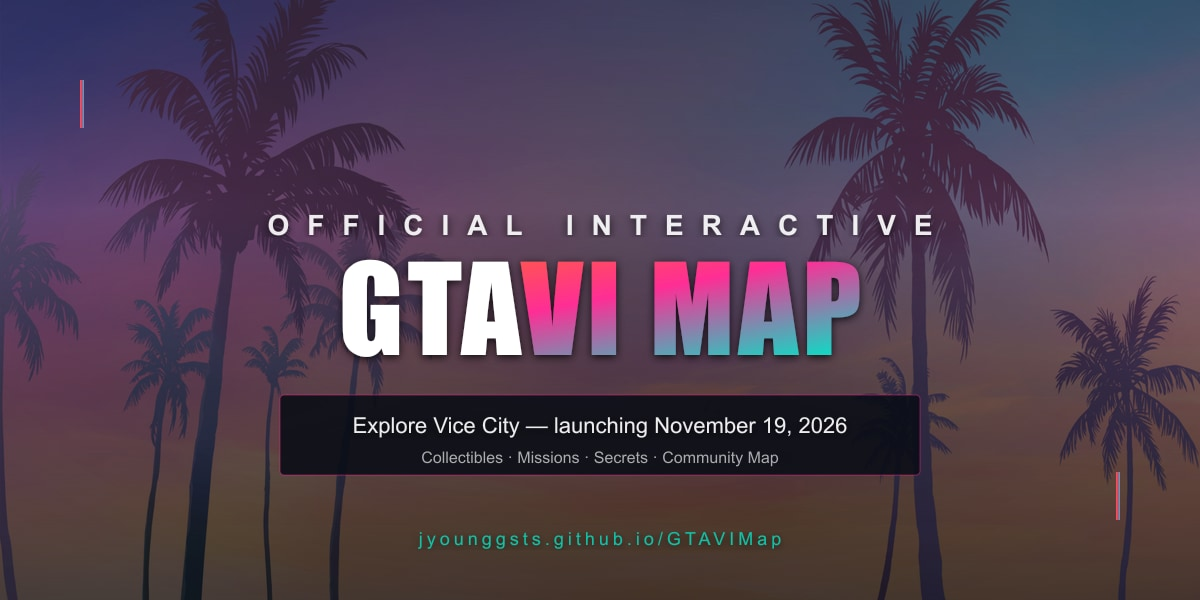
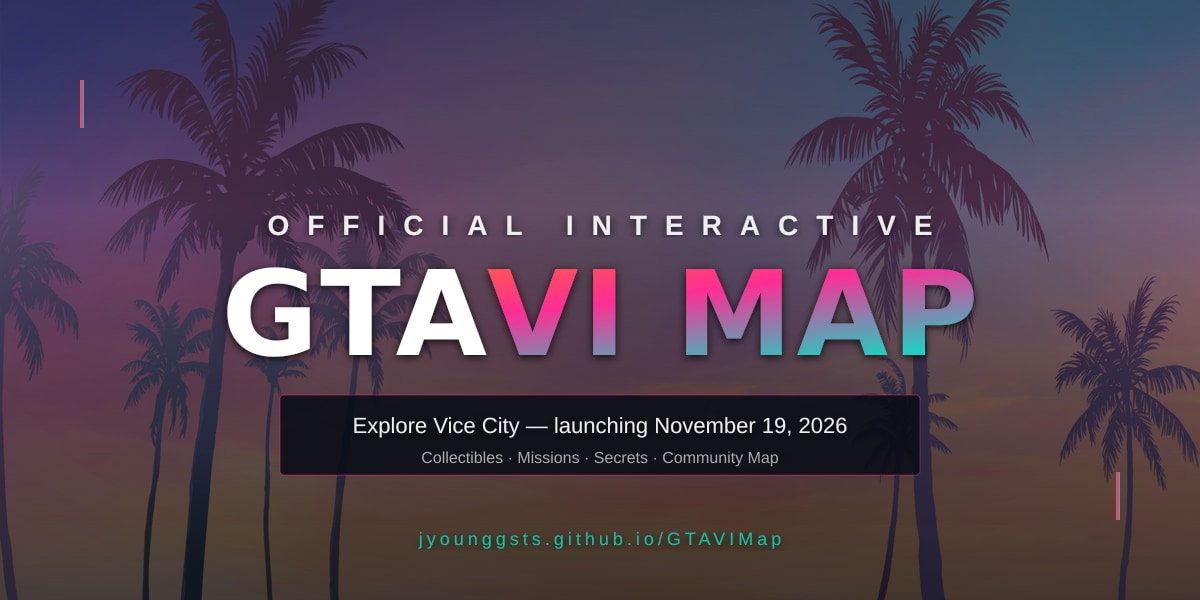
chore: rebuild docs for GitHub Pages

diff --git a/docs/index.html b/docs/index.html
@@ -46,6 +46,6 @@
     <link rel="stylesheet" crossorigin href="/GTAVIMap/assets/index-DQuAR2bh.css">
   </head>
   <body>
-    <div id="app"></div>
+    <div id="app"></div>
   </body>
 </html>